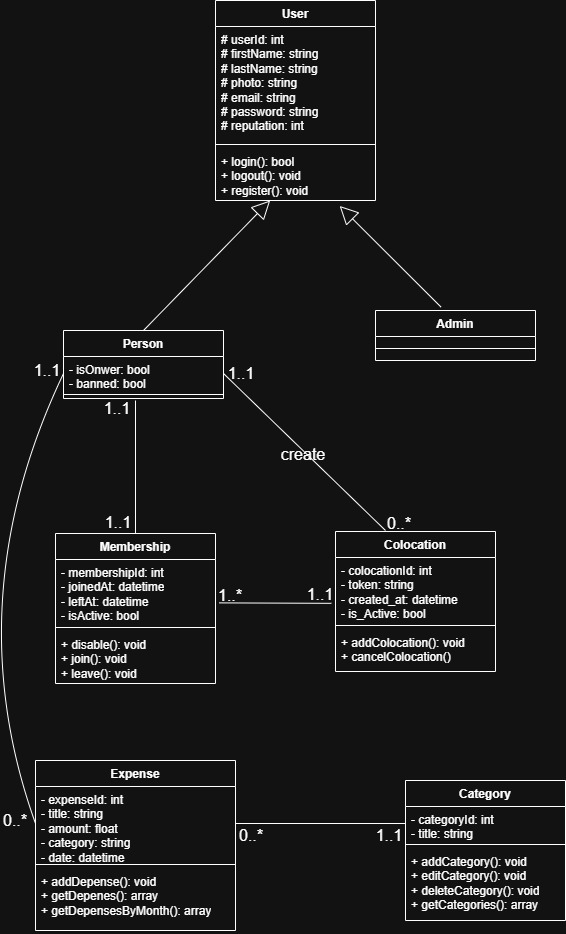
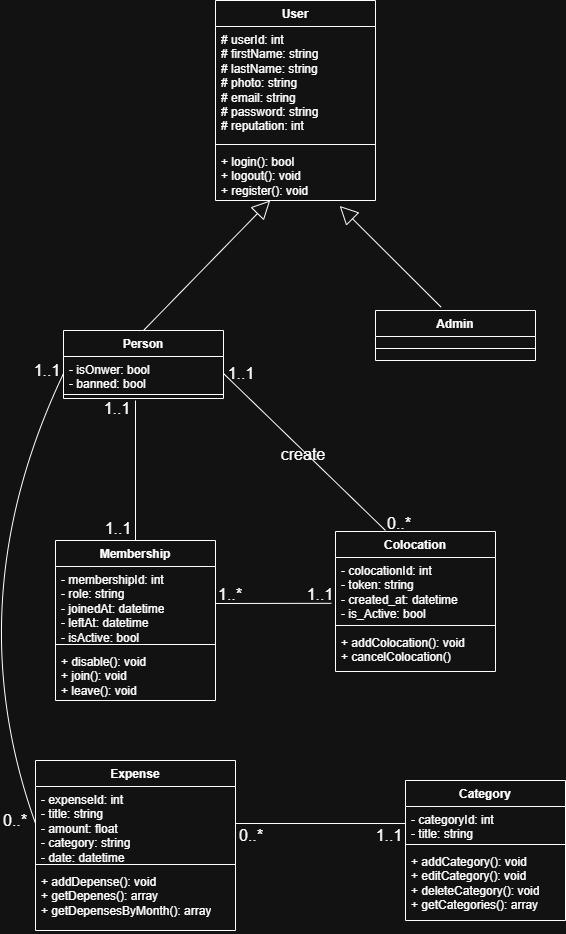
added users models

Changed region(s): [[0.0901, 0.5589, 0.3004, 0.7452], [0.3905, 0.621, 0.4505, 0.652]]

diff --git a/laravel/app/Models/Person.php b/laravel/app/Models/Person.php
@@ -1,0 +1,20 @@
+<?php
+
+namespace App\Models;
+
+use Illuminate\Database\Eloquent\Factories\HasFactory;
+use Illuminate\Database\Eloquent\Model;
+
+class Person extends Model
+{
+    use HasFactory;
+    
+    protected $fillable = [
+        'firstName',
+        'lastName',
+        'photo',
+        'email',
+        'password',
+        'role',
+    ];
+}

diff --git a/laravel/app/Models/Admin.php b/laravel/app/Models/Admin.php
@@ -1,0 +1,20 @@
+<?php
+
+namespace App\Models;
+
+use Illuminate\Database\Eloquent\Factories\HasFactory;
+use Illuminate\Database\Eloquent\Model;
+
+class Admin extends Model
+{
+    use HasFactory;
+    
+    protected $fillable = [
+        'firstName',
+        'lastName',
+        'photo',
+        'email',
+        'password',
+        'role',
+    ];
+}
